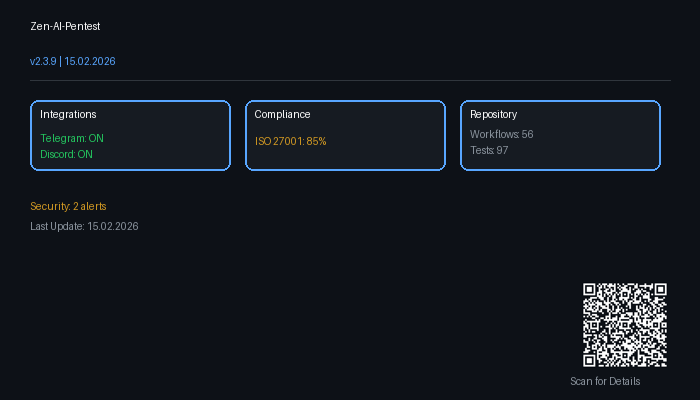
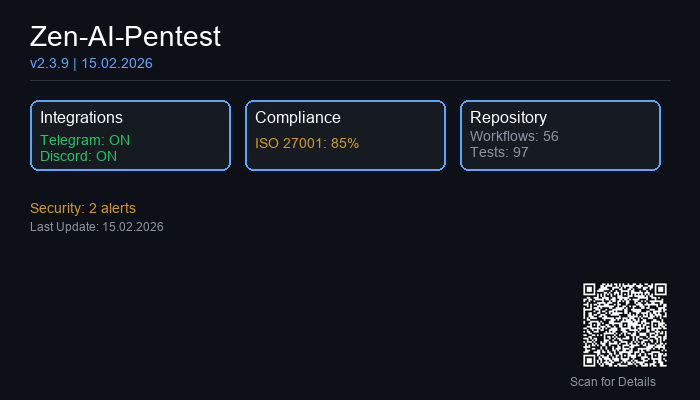
feat: Update status card QR code to link to AGENTS.md for AI agents

diff --git a/scripts/generate_repo_status_card.py b/scripts/generate_repo_status_card.py
@@ -139,8 +139,8 @@ def generate_status_card():
     draw.text((30, bottom_y), f"Security: {stats['security']}", fill=yellow_color, font=text_font)
     draw.text((30, bottom_y + 20), f"Last Update: {stats['date']}", fill=gray_color, font=small_font)
     
-    # QR Code (rechts unten)
-    qr_url = "https://github.com/SHAdd0WTAka/Zen-Ai-Pentest/blob/main/PROJECT_STATUS_COMPLETE.md"
+    # QR Code (rechts unten) - Link to AGENTS.md for AI Agents
+    qr_url = "https://github.com/SHAdd0WTAka/Zen-Ai-Pentest/blob/main/AGENTS.md"
     qr_img = create_qr_code(qr_url, 90)
     qr_x = width - 120
     qr_y = height - 120
